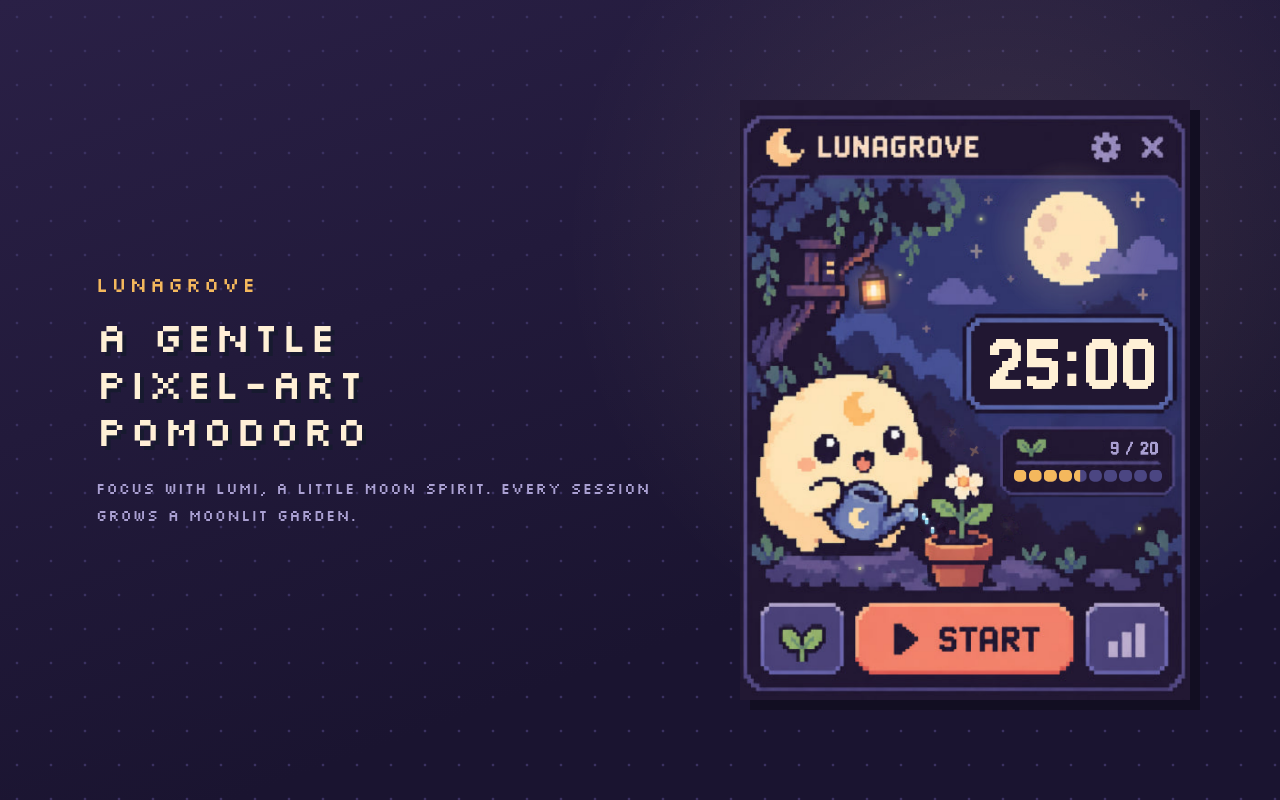
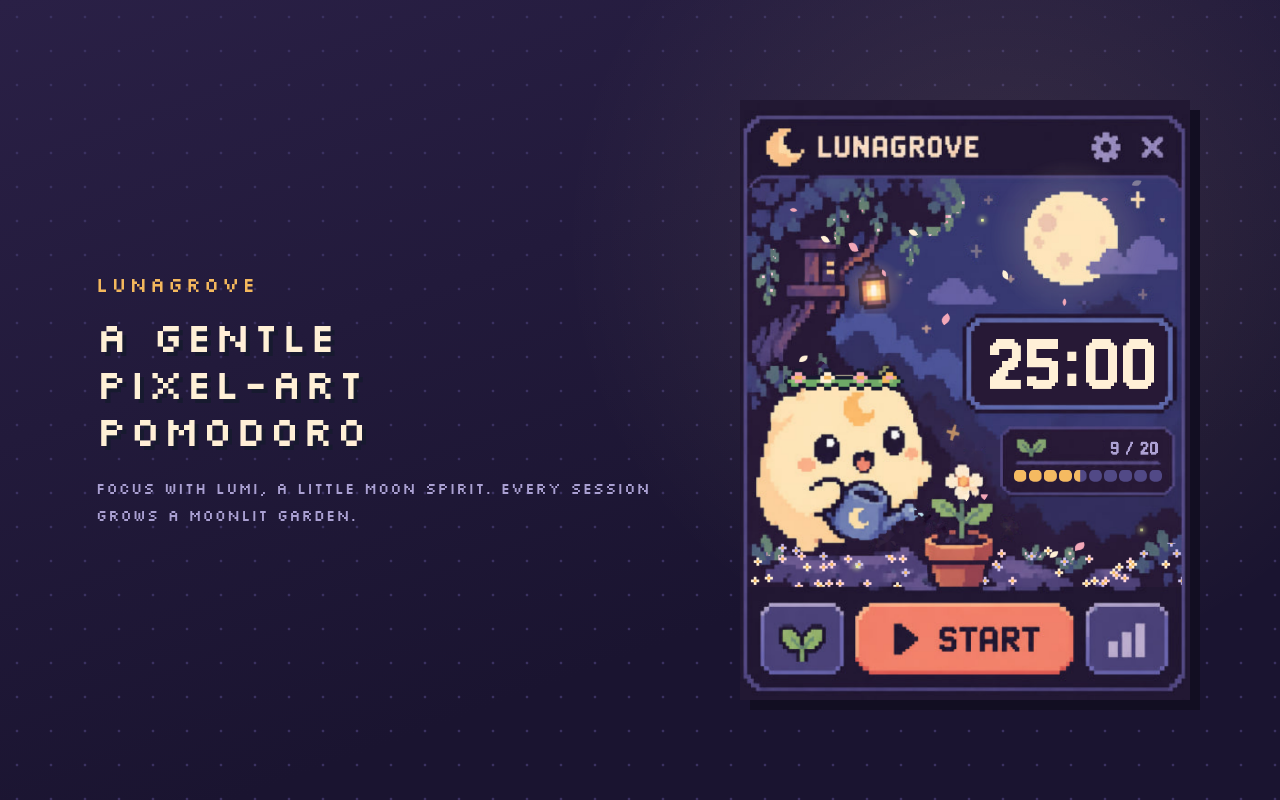
docs: refresh the readme and store art for 0.2

diff --git a/README.md b/README.md
@@ -18,7 +18,7 @@
 ---
 
 <div align="center">
-  <img src="docs/assets/lunagrove-home.gif" width="390" alt="Animated Lunagrove popup: Lumi breathes and waters her flower while stars twinkle, the lantern sways and fireflies drift beside a 25-minute timer" />
+  <img src="docs/assets/lunagrove-home.gif" width="390" alt="Animated Lunagrove popup in spring: Lumi, wearing a flower crown, looks around beside her flower while petals fall, the lantern sways and fireflies drift next to a 25-minute timer" />
   <br />
   <sub>The home screen: Lumi waters her flower while the timer waits for you.</sub>
 </div>
@@ -28,7 +28,8 @@
 <table align="center">
   <tr>
     <td align="center"><img src="docs/assets/lunagrove-focusing.png" width="200" alt="Home screen during a focus session, 18:42 left, with the Pause button" /><br /><sub>Focusing</sub></td>
-    <td align="center"><img src="docs/assets/lunagrove-garden-growing.png" width="200" alt="Lumi's garden at 9 of 20 with a pond, lily pads, reeds and a seed bed" /><br /><sub>The garden, growing</sub></td>
+    <td align="center"><img src="docs/assets/lunagrove-garden-growing.png" width="200" alt="The Moon Garden at 12 of 20 in spring: a pond with a frog, a little bridge and Lumi admiring the newest piece" /><br /><sub>The garden, growing</sub></td>
+    <td align="center"><img src="docs/assets/lunagrove-hollow.png" width="200" alt="Mushroom Hollow complete: a giant glowing mushroom, a spirit deer, an acorn house and a moon pool" /><br /><sub>The second garden</sub></td>
     <td align="center"><img src="docs/assets/lunagrove-stats.png" width="200" alt="Focus stats with today, this week, all time, a seven-day bar chart and streaks" /><br /><sub>Focus stats</sub></td>
     <td align="center"><img src="docs/assets/lunagrove-settings.png" width="200" alt="Pixel-art settings with durations, notifications, sounds, motion and backups" /><br /><sub>Settings</sub></td>
   </tr>
@@ -71,9 +72,9 @@ Each completed focus session unlocks one permanent detail:
 | `16–20` | **Shrine** | Steps, runes, altar, shrine light, and the lunar shrine. |
 
 <div align="center">
-  <img src="docs/assets/lunagrove-garden-timelapse.gif" width="320" alt="Time-lapse of Lumi's garden growing from an empty meadow at 0 of 20 to a glowing shrine at 20 of 20, one piece popping in per focus session" />
+  <img src="docs/assets/lunagrove-garden-timelapse.gif" width="320" alt="Time-lapse of forty focus sessions: the Moon Garden grows from an empty meadow to a glowing shrine, then Mushroom Hollow opens and grows to its giant glowing mushroom" />
   <br />
-  <sub>From an empty meadow to a lit shrine: twenty focus sessions in ten seconds.</sub>
+  <sub>Two gardens, forty focus sessions: from an empty meadow to Mushroom Hollow.</sub>
 </div>
 
 The newest piece pops into place every time you open the garden.
